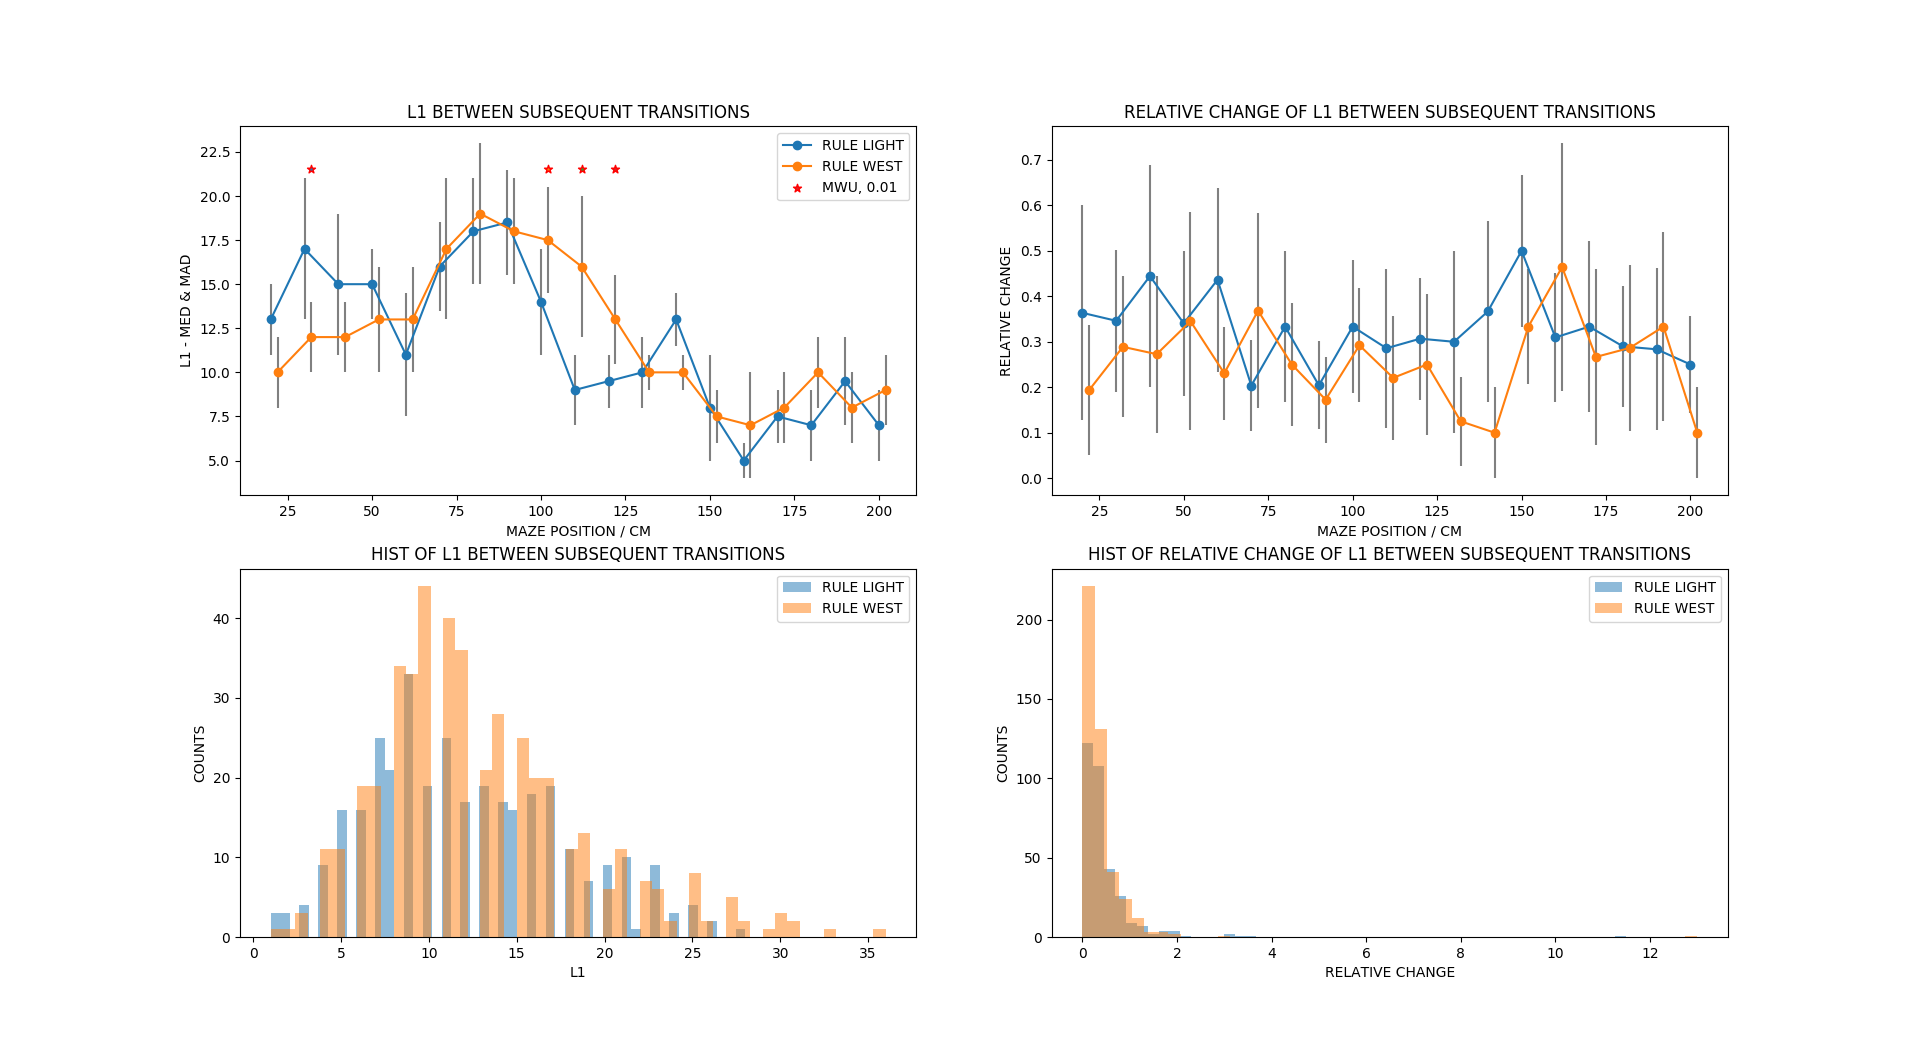
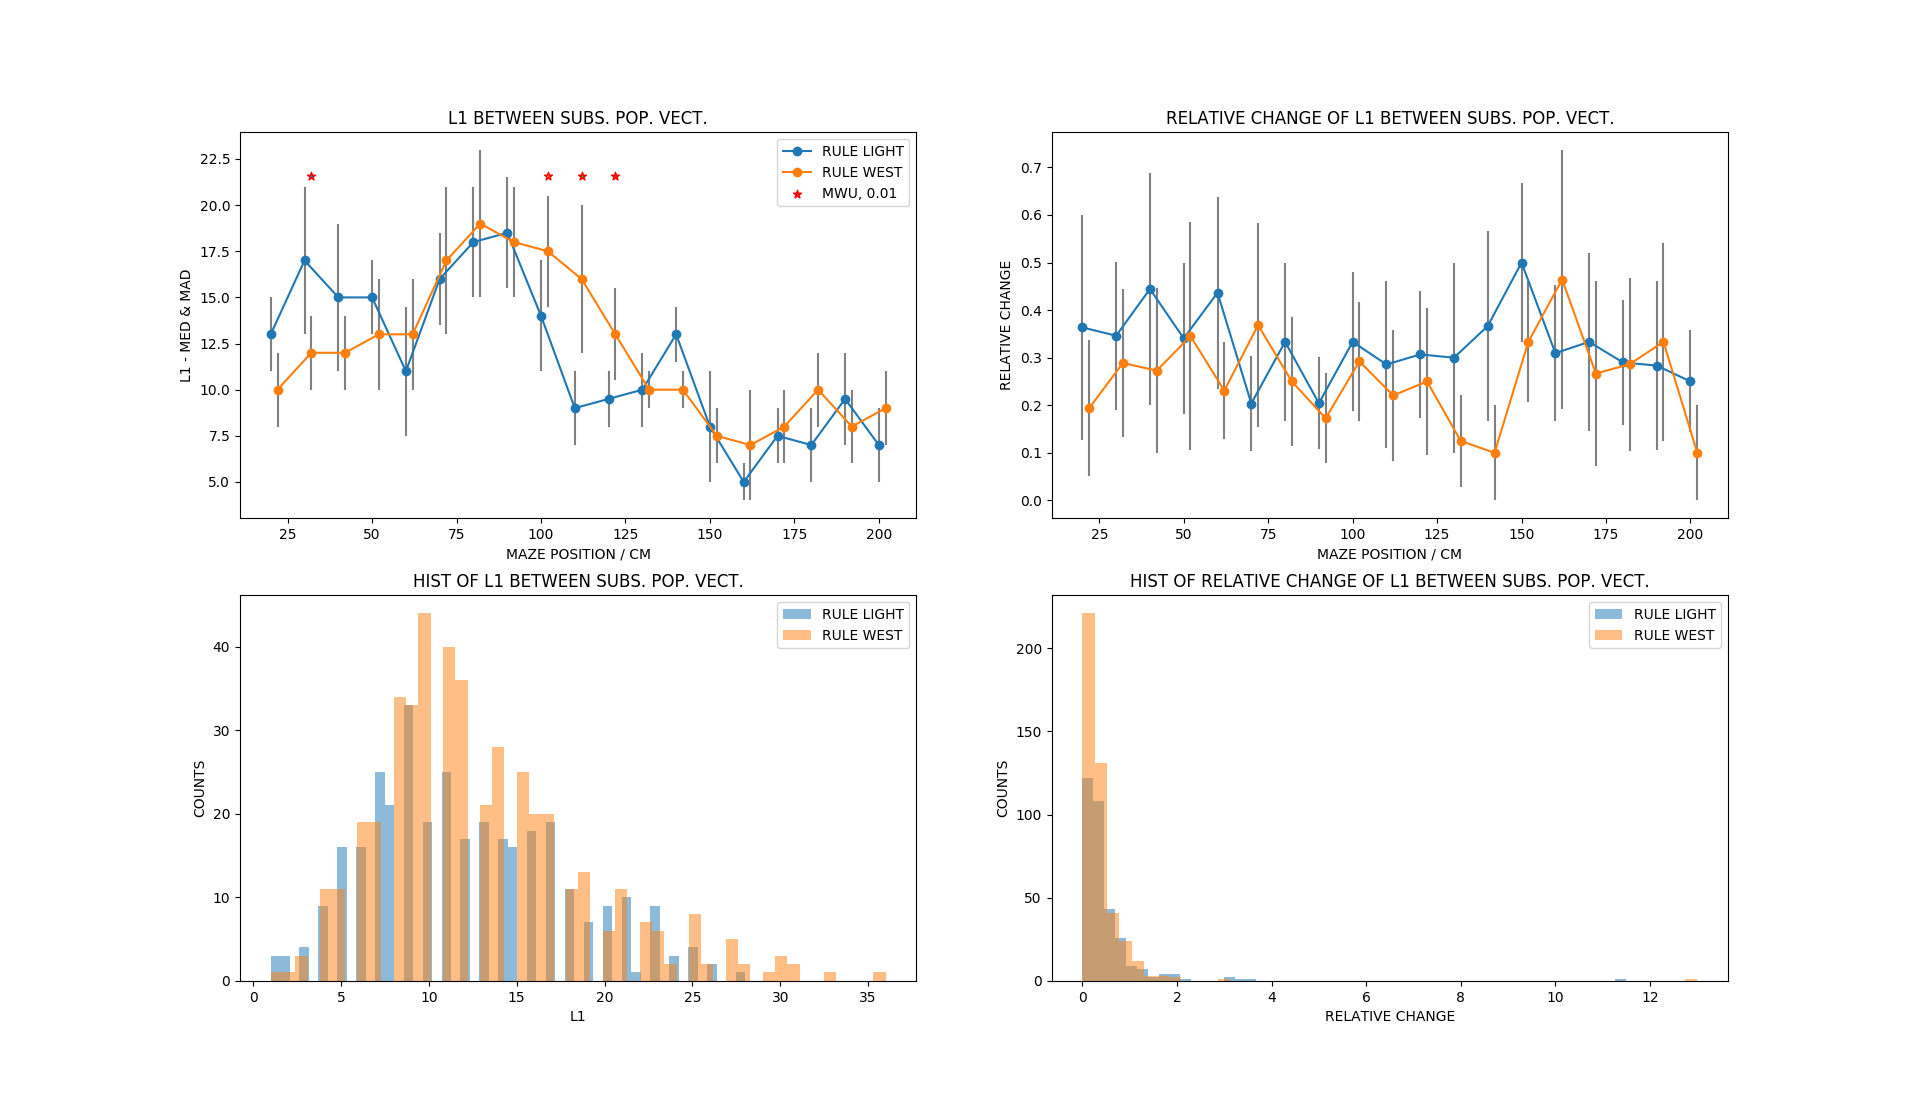
changed plots

diff --git a/plotting_functions.py b/plotting_functions.py
@@ -508,13 +508,13 @@ def plot_transition_comparison(x_axis, dics, rel_dics, param_dic, stats_array, m
             err = robust.mad(dic[key], c=1, axis=1)
             ax1.errorbar(x_axis[i]+data_set_ID*2, med[i], yerr=err,ecolor="gray")
         ax1.plot(x_axis+data_set_ID*2,med, marker="o", label=param_dic["data_descr"][data_set_ID])
-        ax1.set_title(measure.upper() + " BETWEEN SUBSEQUENT TRANSITIONS")
+        ax1.set_title(measure.upper() + " BETWEEN SUBS. POP. VECT.")
         ax1.set_ylabel(measure.upper() + " - MED & MAD")
         ax1.set_xlabel("MAZE POSITION / CM")
         ax1.legend()
 
         ax3.hist(all_values[~np.isnan(all_values)],bins=50, alpha=0.5, label=param_dic["data_descr"][data_set_ID])
-        ax3.set_title("HIST OF " +measure.upper()+" BETWEEN SUBSEQUENT TRANSITIONS")
+        ax3.set_title("HIST OF " +measure.upper()+" BETWEEN SUBS. POP. VECT.")
         ax3.set_xlabel(measure.upper())
         ax3.set_ylabel("COUNTS")
         ax3.legend()
@@ -542,13 +542,13 @@ def plot_transition_comparison(x_axis, dics, rel_dics, param_dic, stats_array, m
             err = robust.mad(rel_dic[key], c=1, axis=1)
             ax2.errorbar(x_axis[i]+data_set_ID*2, rel_med[i], yerr=err,ecolor="gray")
         ax2.plot(x_axis+data_set_ID*2, rel_med, marker="o", label=param_dic["data_descr"][data_set_ID])
-        ax2.set_title("RELATIVE CHANGE OF "+measure.upper()+" BETWEEN SUBSEQUENT TRANSITIONS")
+        ax2.set_title("RELATIVE CHANGE OF "+measure.upper()+" BETWEEN SUBS. POP. VECT.")
         ax2.set_ylabel("RELATIVE CHANGE")
         ax2.set_xlabel("MAZE POSITION / CM")
 
         ax4.hist(all_rel_values[~np.isnan(all_rel_values) & ~np.isinf(all_rel_values)],
                  bins=50, alpha=0.5, label=param_dic["data_descr"][data_set_ID])
-        ax4.set_title("HIST OF RELATIVE CHANGE OF "+measure.upper()+" BETWEEN SUBSEQUENT TRANSITIONS")
+        ax4.set_title("HIST OF RELATIVE CHANGE OF "+measure.upper()+" BETWEEN SUBS. POP. VECT.")
         ax4.set_xlabel("RELATIVE CHANGE")
         ax4.set_ylabel("COUNTS")
         ax4.legend()
